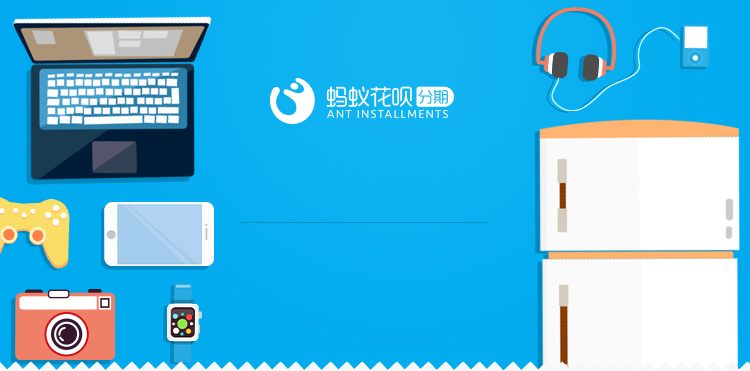
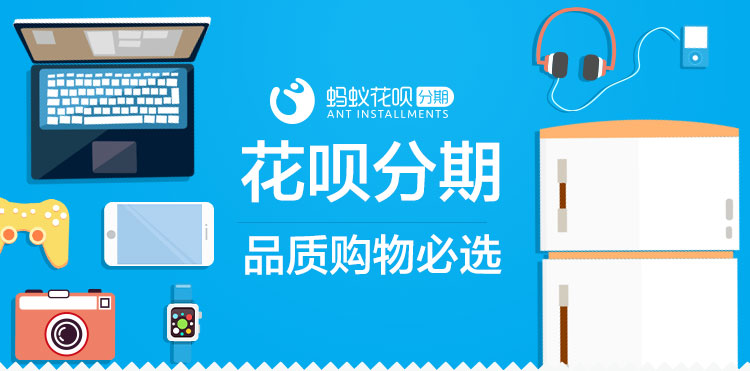
更改花呗手机端

diff --git a/payment/css/style.css b/payment/css/style.css
@@ -1,26 +1,1 @@
-/*初始化*/
-body,div,header,nav,section,footer,h1,h2,h3,h4,h5,ul,ol,li,p,dl,dt,dd,form,table,tr,td,th,img,a,span,em,i,strong,b,label,input,select{margin: 0; padding:0;}
-li{list-style: none;}
-a {color: #fff; text-decoration: none;}
-a:hover{color: #fff;}
-.clearfix:before,.clearfix:after{
-	content: " ";
-	display: table;
-}
-.clearfix:after{clear: both;}
-
-html{font-size: 625%;}
-body{min-width: 320px; max-width: 750px; font-size: 0.3rem; margin: 0 auto; font-family: "微软雅黑";  color: #fff; background: #f6f8f7;}
-header{width: 100%; height: 3.71rem; background: url(../img/header.jpg) no-repeat center top / 100% auto;}
-h1{ font-size: 0.66rem; padding-top: 1.24rem; line-height: 0.98rem; text-align: center; }
-h2{ font-size: 0.43rem; line-height: 0.62rem; text-align: center; }
-.MA{margin:0 auto;}
-.nav{box-sizing: border-box; font-size: 0.28rem; font-weight: bold; color: #3d3f4e; width: 6.95rem; height: 1.46rem; line-height: 0.34rem; background: url(../img/nav-bg.png) no-repeat 0 0 / 100% auto; padding: 0.22rem 0.5rem 0.22rem 0.7rem; margin-top: 0.66rem;}
-.list li{box-sizing: border-box;  margin-top: 0.36rem; width:6.95rem; border:0.02rem #3d3f4e solid;  }
-.payment{ height: 1.21rem;  border-radius: 0.6rem; background: url(../img/logo1.png) no-repeat 0.35rem 0.13rem / 0.88rem 0.88rem;}
-.left{box-sizing: border-box; margin-left: 1.47rem; height: 100%; border-left:0.02rem #3d3f4e solid; padding:0.17rem 0 0 0.21rem;  }
-.list h4{ font-size: 0.28rem; color: #333333; line-height: 0.38rem;}
-.list p{ font-size: 0.24rem; color: #666; line-height: 0.28rem; padding-top: 0.11rem;}
-.installment{ height: 1.45rem;  border-radius: 0.72rem; background: url(../img/logo2.png) no-repeat 0.44rem 0.34rem / 0.88rem 0.88rem; }
-.freegoods{ height: 1.45rem;  border-radius: 0.72rem; background: url(../img/logo3.png) no-repeat 0.44rem 0.28rem / 0.88rem 0.88rem; }
-.how{margin-top: 0.7rem; color: #3d3f4e; font-size:0.28rem; line-height: 0.41rem;text-align: center; background: #fdff04;}
+a,article,b,body,dd,div,dl,dt,em,footer,form,h1,h2,h3,h4,header,i,img,li,nav,p,section,span,strong,ul{margin:0;padding:0;-ms-touch-action:none;box-sizing:border-box}em,i{font-style:normal}a{text-decoration:none;color:#666}a:hover{color:#666}button,input{-webkit-appearance:none}img{border:0 none;vertical-align:top}li{list-style:none}html{font-size:625%}body{max-width:750px;min-width:320px;margin:0 auto;background:#f6f8f7;font-family:"微软雅黑";font-size:.24rem;color:#666}.clearfix:after{content:".";display:block;visibility:hidden;clear:both;height:0;font-size:0}#header{width:100%;height:3.71rem}#header img{width:100%}.info{width:100%;height:1.41rem;line-height:.34rem;color:#3d3f4e;font-size:.28rem;background:url(../img/info-bg.png) no-repeat 0 0/100% auto;margin-top:.72rem;padding:.17rem .76rem 0 .73rem}.yellow{position:relative}.yellow i{position:relative;z-index:2}.yellow:after{content:"";position:absolute;left:-.04rem;top:.1rem;z-index:1;width:100%;height:.2rem;background:#fdff04;border-radius:.1rem}.intr-main .intr{width:6.95rem;height:1.45rem;margin:.36rem 0 0 .28rem;border:#636571 solid .02rem;border-radius:.725rem}.intr-main .intr:nth-child(1){height:1.21rem;border-radius:.605rem;background:url(../img/intr-01.png) no-repeat .34rem .09rem/.91rem .91rem}.intr-main .intr:nth-child(2){background:url(../img/intr-02.png) no-repeat .43rem .38rem/.86rem .81rem}.intr-main .intr:nth-child(2) dl{width:4.64rem}.intr-main .intr:nth-child(3){background:url(../img/intr-03.png) no-repeat .43rem .3rem/.86rem .86rem}.intr-main .intr:nth-child(3) dl{width:5.1rem}.intr-main dl{margin-left:1.45rem;border-left:#636571 solid .02rem;height:100%;padding-left:.24rem}.intr-main dt{line-height:.66rem;font-size:.28rem;color:#333;font-weight:700}.intr-main dd{line-height:.3rem}.how-tit{line-height:.7rem;margin-top:.54rem;text-align:center;font-size:.28rem;color:#3d3f4e}.how-main{width:100%;height:6.4rem;padding-top:.06rem;background:url(../img/how-bg.jpg) no-repeat 0 0/100% auto}.how-main p{width:5.8rem;margin-left:.93rem;color:#333;line-height:.3rem}.how-main p:nth-child(1){margin-bottom:5.44rem}.link{display:block;width:6.42rem;height:1.18rem;line-height:1.08rem;background:url(../img/link-bg.png) no-repeat 0 0/100% auto;margin:.86rem auto 0;color:#fff;font-size:.32rem;padding-left:.28rem}#footer{height:1.42rem;margin-top:.62rem}#footer img{width:100%}

diff --git a/payment/index.html b/payment/index.html
@@ -3,36 +3,44 @@
 <head>
 	<meta charset="UTF-8">
 	<meta name="viewport" content="width=device-width, user-scalable=no, initial-scale=1.0, maximum-scale=1.0, minimum-scale=1.0">
-	<title>手淘</title>
+	<title>花呗</title>
 	<script src="js/fontAuto.js"></script>
 	<link rel="stylesheet" href="css/style.css">
 </head>
 <body>
-	<header class="head">
-		<h1>花呗分期</h1>
-		<h2>品质购物必选</h2>
-	</header>
-	<p class="nav MA">花呗分期是由蚂蚁金服提供的消费分期服务，用户通过花呗分期付款，享受0首付，分月还款的服务。</p>
-	<ul class="list">
-		<li class="payment MA">
-			<div class="left">
-			<h4>0首付</h4>
-			<p>花呗分期支持您0首付购物，想要就要！</p>
-			</div>
-		</li>
-		<li class="installment MA">
-			<div class="left">
-			<h4>分期付款</h4>
-			<p>花呗分期支持您分3期、6期、12期等多种<br>分期方式，购物轻松无忧！</p>
-			</div>
-		</li>
-		<li class="freegoods MA">
-			<div class="left">
-			<h4>免息商品</h4>
-			<p>天猫、淘宝、阿里旅行，以及各知名品牌商城，<br>分期免息商品多多，尽情淘你喜欢！</p>
-			</div>
-		</li>
-	</ul>
-	<h3 class="how">如何在手机淘宝使用花呗分期？</h3>
+	<header id="header"><img src="img/header.jpg" /></header>
+	<section class="info">花呗分期是<span class="yellow"><i>由蚂蚁金服提供的消费分期服务，</i></span>
+用户通过花呗分期付款，<span class="yellow"><i>享受0首付</i></span>，分月还
+款的服务。</section>
+	<section class="intr-main">
+		<section class="intr">
+			<dl>
+				<dt>0首付</dt>
+				<d>花呗分期支持您0首付购物，想要就要！</dd>
+			</dl>
+		</section>
+		<section class="intr">
+			<dl>
+				<dt>分期付款</dt>
+				<dd>花呗分期支持您分3期、6期、12期等多种
+	分期方式，购物轻松无忧！</dd>
+			</dl>
+		</section>
+		<section class="intr">
+			<dl>
+				<dt>免息商品</dt>
+				<dd>天猫、淘宝、阿里旅行，以及各知名品牌商城，
+	分期免息商品多多，尽情淘你喜欢！</dd>
+			</dl>
+		</section>
+	</section>
+	<h3 class="how-tit"><span class="yellow"><i>如何在手机淘宝使用花呗分期？</i></h3>
+	<section class="how-main">
+		<p>在淘宝手机客户端，使用搜索筛选功能，轻松找到支持
+花呗分期的商品</p>
+		<p>在商品详情页选择使用花呗分期付款，轻松透明</p>
+	</section>
+	<a class="link" href="##">花呗分期，购物全新体验，乐享先机！</a>
+	<footer id="footer"><img src="img/footer.jpg" /></footer>
 </body>
 </html>

diff --git a/payment/js/fontAuto.js b/payment/js/fontAuto.js
@@ -1,23 +1,23 @@
 var fontAuto={
-	width:750,
-	fontFun:function(){
-		var that=this;
-		var htmlNode=document.documentElement;
-		var winW=htmlNode.clientWidth;
-		winW=winW<320?320:winW;
-		if(winW>=that.width){
+	fontFun:function(width){
+	//width表示效果图的尺寸
+	//让网页的宽度随着浏览器的宽度变化为变化，按比例缩放网页
+		var winWidth=document.documentElement.clientWidth;//网页的可视宽度
+		var htmlNode=document.documentElement;//html标签
+		if(winWidth>=width){
 			htmlNode.style.fontSize="625%";
 		}
 		else{
-			htmlNode.style.fontSize=winW/that.width*625+"%";
+			htmlNode.style.fontSize=winWidth/width*625+"%";
 		}
 	},
-	init:function(){
-		var that=this;
-		that.fontFun();
-		window.onresize=function(){
-			that.fontFun();
+	init:function(){/*初始化*/
+		var obj=this;
+		obj.fontFun(750);//调用fontFun函数
+		window.onresize=function(){//窗口变化时触发函数
+			obj.fontFun(750);
 		}
 	}
 };
+
 fontAuto.init();
